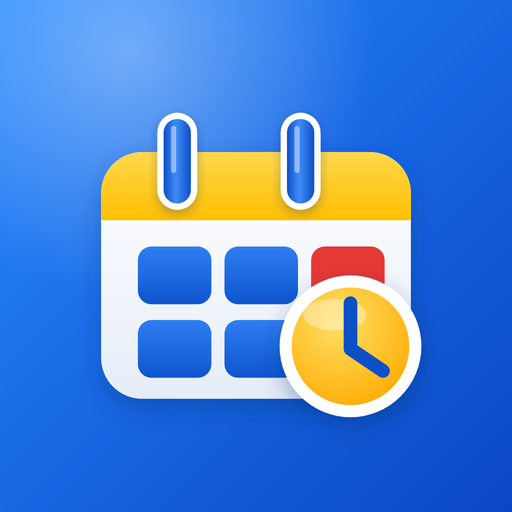
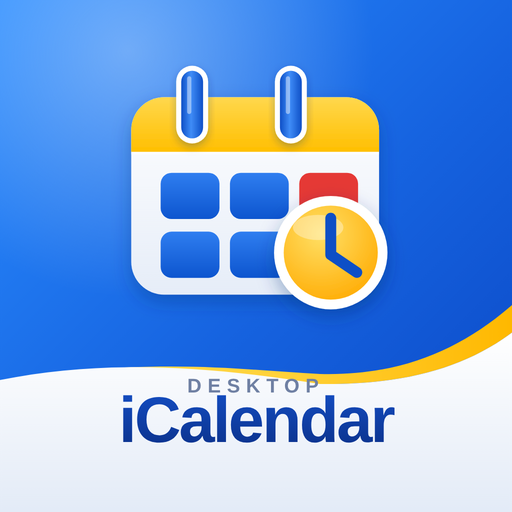
웹 버전 휴대폰 아이콘: iCalendar 글씨가 보이도록 수정

diff --git a/web/sw.js b/web/sw.js
@@ -1,5 +1,5 @@
 /* 바탕화면 달력 휴대폰 앱: 껍데기 파일을 저장해 인터넷 없이도 열리게 함(달력 화면·일정은 앱이 따로 저장) */
-const C = 'dcal-web-5';
+const C = 'dcal-web-6';
 const FILES = ['./', './index.html', './manifest.webmanifest', './icon-192.png', './icon-512.png', './icon-180.png', './icon-maskable-192.png', './icon-maskable-512.png', './gweb.js'];
 self.addEventListener('install', e => { e.waitUntil(caches.open(C).then(c => c.addAll(FILES))); self.skipWaiting(); });
 self.addEventListener('activate', e => { e.waitUntil(caches.keys().then(ks => Promise.all(ks.filter(k => k !== C).map(k => caches.delete(k))))); self.clients.claim(); });
